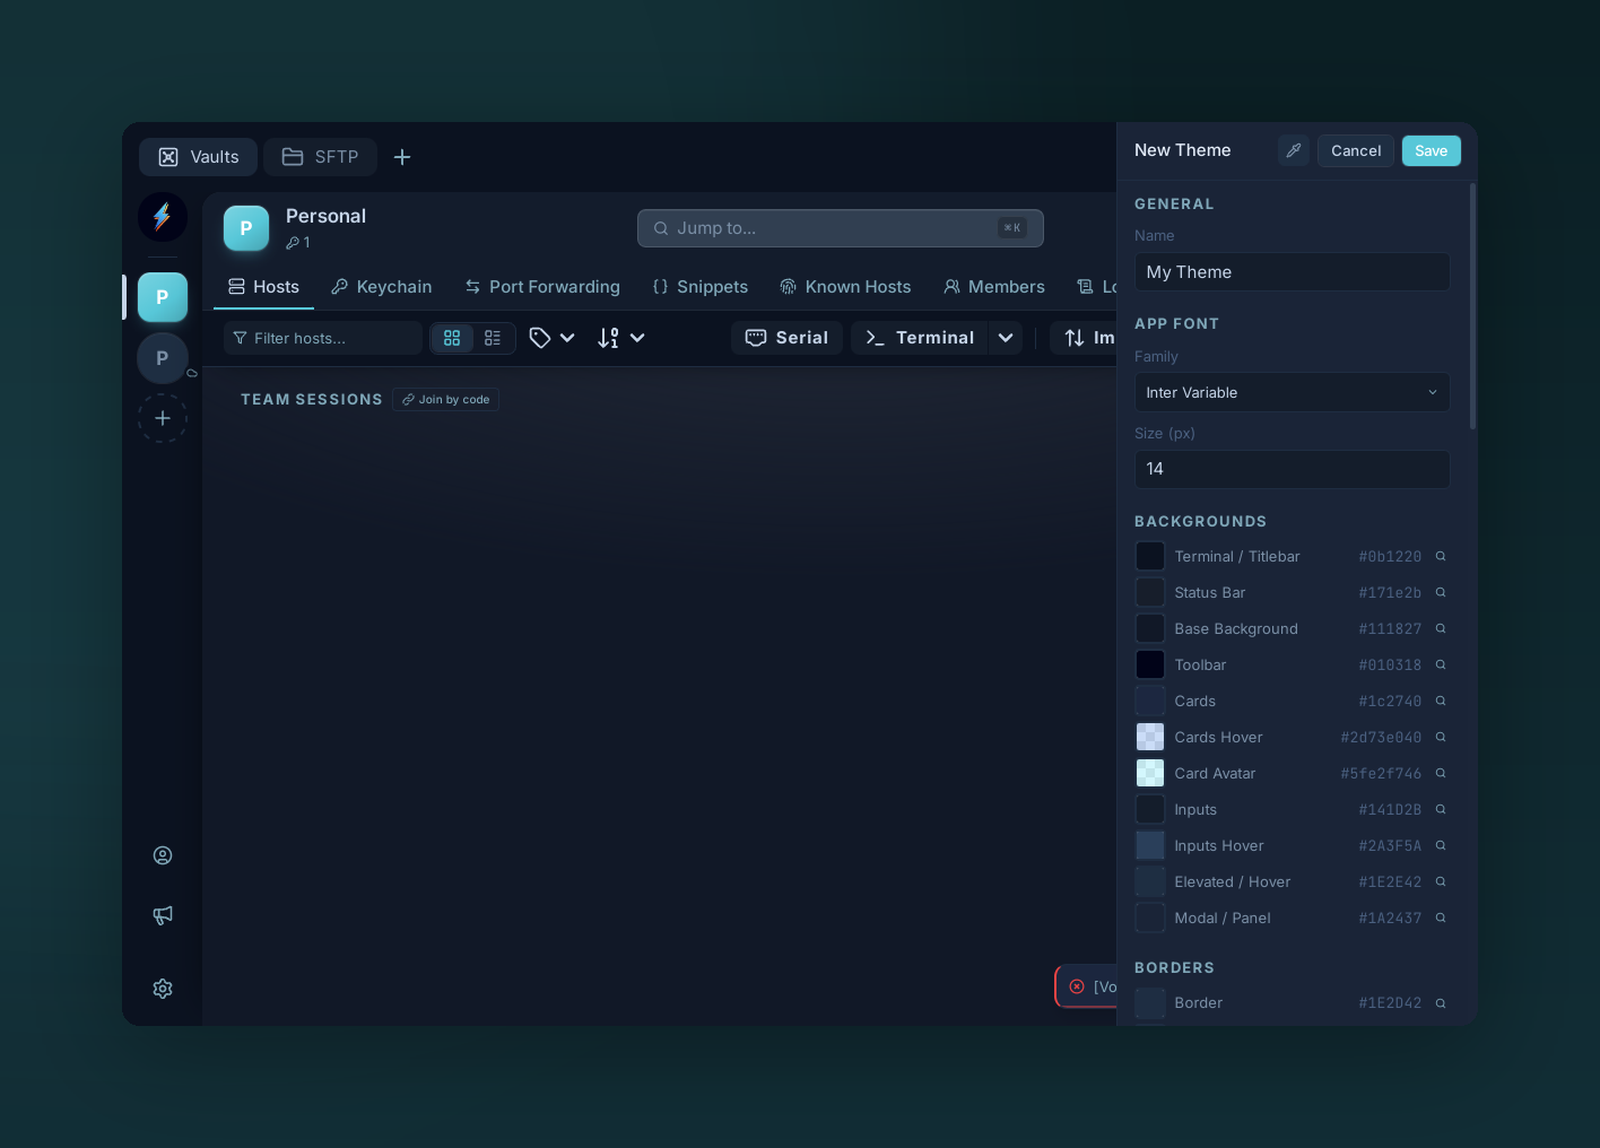
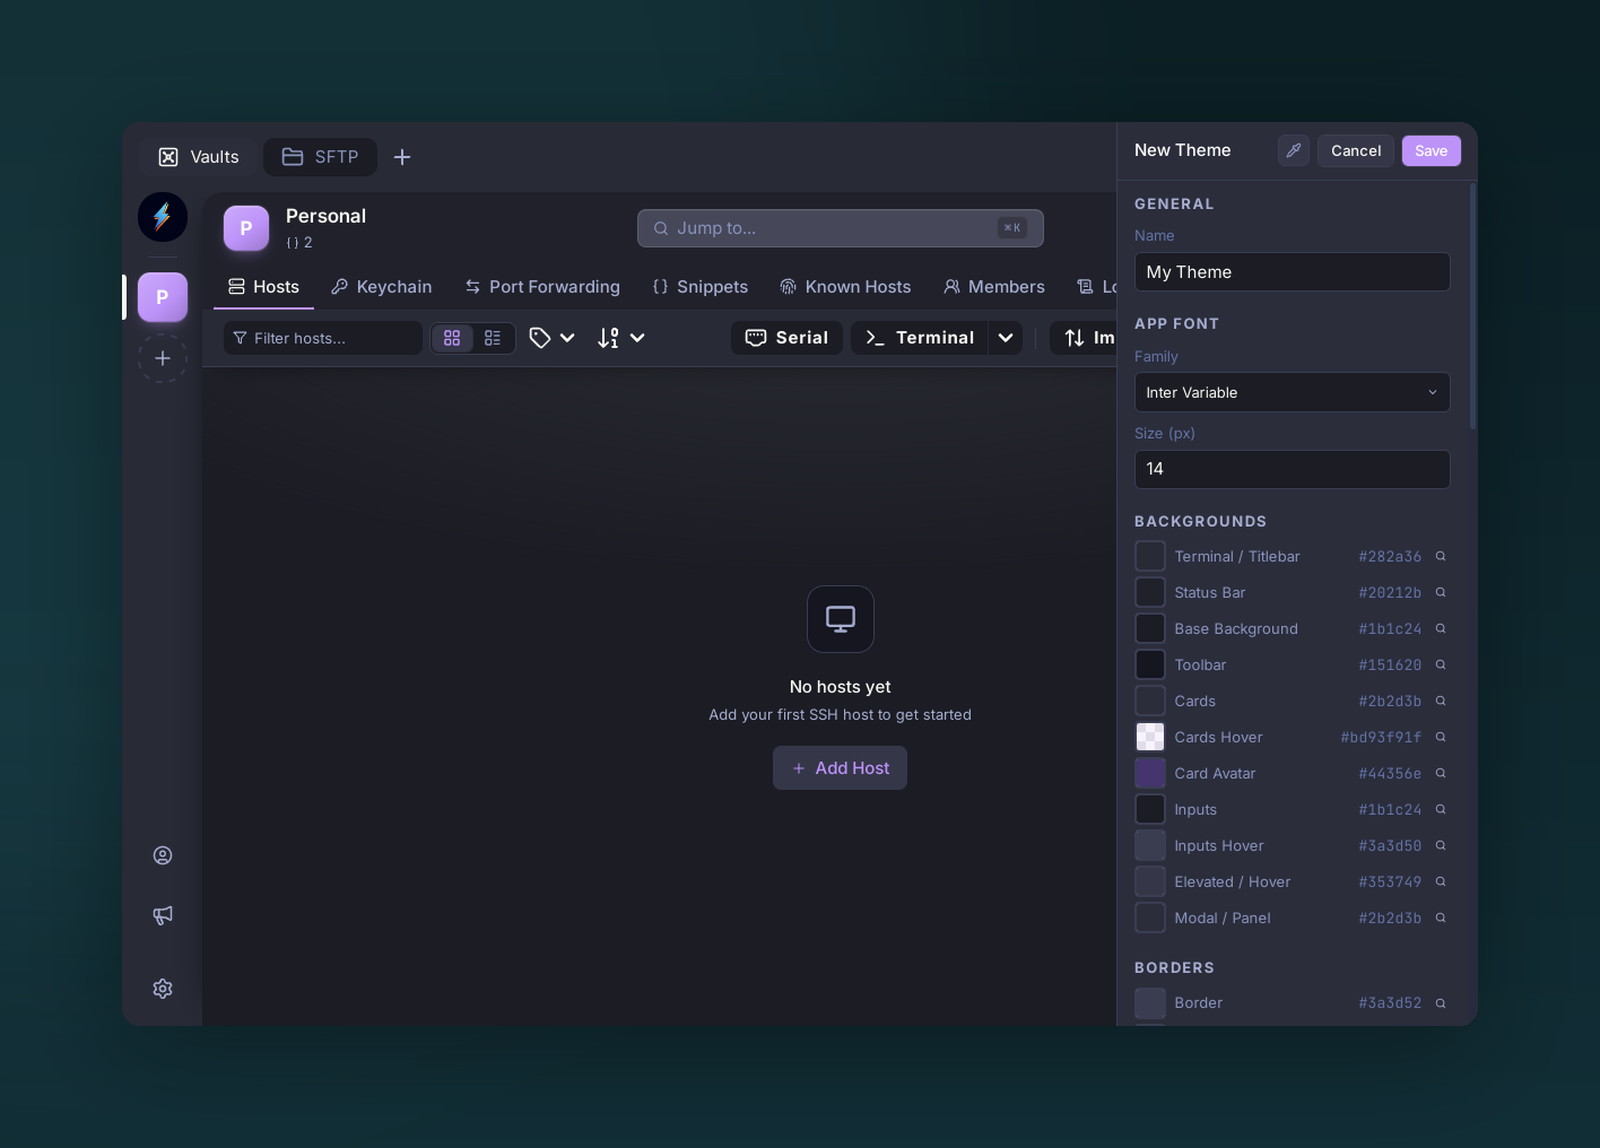
feat(themes): polish Dracula & Monokai — real elevation + text ramps (#40) (#60)
Both presets read flat because their surface and text ramps were broken:

- Chrome backgrounds collapsed together — `bgToolbar` == `bgTerminal` ==
  `bgStatusBar`, and `bgBase` sat *between* them, so toolbar / base / cards /
  panels never separated. Rebuild each as a stepped ramp
  (toolbar darkest → base → status → card → elevated).
- The text ramp was inverted: `textDim` was *darker* than `textMuted`
  (Dracula #44475a, Monokai #3e3d32), so "dim" secondary text washed out to
  near-invisible. Restore ordering with a legible dim tier.
- Active tabs were a flat neutral fill; give them an accent-tinted background
  + accent underline so the current tab reads clearly.
- Hover accent was darker than the base accent; brighten it.

Canonical hues (Dracula purple/pink/green, Monokai lime/pink/orange) and the
terminal ANSI palettes are unchanged. tsc + theme/appearance tests green.

Refs #40

diff --git a/src/themes/presets.ts b/src/themes/presets.ts
@@ -142,31 +142,31 @@ export const BUILT_IN_THEMES: AppTheme[] = [
     terminalFontSize: 17,
     ui: {
       bgTerminal: "#282a36",
-      bgStatusBar: "#282a36",
-      bgBase: "#21222C",
-      bgToolbar: "#282a36",
-      bgCard: "#2d2f3f",
-      bgCardHover: "#383a4a",
-      bgCardAvatar: "#3d3068",
-      bgInput: "#21222C",
-      bgInputHover: "#44475a",
-      bgElevated: "#383a4a",
-      bgModal: "#2d2f3f",
-      border: "#44475a",
-      borderHover: "#6272a4",
-      textDim: "#44475a",
+      bgStatusBar: "#20212b",
+      bgBase: "#1b1c24",
+      bgToolbar: "#151620",
+      bgCard: "#2b2d3b",
+      bgCardHover: "#bd93f91f",
+      bgCardAvatar: "#44356e",
+      bgInput: "#1b1c24",
+      bgInputHover: "#3a3d50",
+      bgElevated: "#353749",
+      bgModal: "#2b2d3b",
+      border: "#3a3d52",
+      borderHover: "#ffffff00",
+      textDim: "#a6adcf",
       textMuted: "#6272a4",
-      textSecondary: "#8892b9",
+      textSecondary: "#8a93bd",
       textPrimary: "#f8f8f2",
       textBright: "#ffffff",
       accent: "#bd93f9",
-      accentHover: "#a87fe0",
-      tabBg: "#383a4a",
-      tabActiveBg: "#44475a",
-      tabActiveText: "#50fa7b",
-      tabActiveBorder: "#50fa7b",
-      vaultTabBg: "#282a36",
-      vaultTabActiveBg: "#383a4a",
+      accentHover: "#d0b0fb",
+      tabBg: "#20212b",
+      tabActiveBg: "#bd93f924",
+      tabActiveText: "#d9c2fd",
+      tabActiveBorder: "#bd93f9",
+      vaultTabBg: "#1b1c24",
+      vaultTabActiveBg: "#2b2d3b",
       statusConnected: "#50fa7b",
       statusError: "#ff5555",
       statusConnecting: "#ffb86c",
@@ -248,31 +248,31 @@ export const BUILT_IN_THEMES: AppTheme[] = [
     terminalFontSize: 17,
     ui: {
       bgTerminal: "#1e1f1c",
-      bgStatusBar: "#1e1f1c",
-      bgBase: "#18191A",
-      bgToolbar: "#1e1f1c",
-      bgCard: "#272822",
-      bgCardHover: "#2f3129",
-      bgCardAvatar: "#1a2a1a",
-      bgInput: "#18191A",
-      bgInputHover: "#3e3d32",
-      bgElevated: "#2f3129",
-      bgModal: "#272822",
-      border: "#3e3d32",
-      borderHover: "#5a574c",
-      textDim: "#3e3d32",
-      textMuted: "#5a574c",
-      textSecondary: "#75715e",
+      bgStatusBar: "#201f1a",
+      bgBase: "#191a15",
+      bgToolbar: "#131410",
+      bgCard: "#282920",
+      bgCardHover: "#a6e22e1a",
+      bgCardAvatar: "#3e4a1f",
+      bgInput: "#191a15",
+      bgInputHover: "#34352a",
+      bgElevated: "#31322a",
+      bgModal: "#282920",
+      border: "#3a3b2e",
+      borderHover: "#ffffff00",
+      textDim: "#b6b09c",
+      textMuted: "#75715e",
+      textSecondary: "#948e79",
       textPrimary: "#f8f8f2",
       textBright: "#ffffff",
       accent: "#a6e22e",
-      accentHover: "#90c41f",
-      tabBg: "#2f3129",
-      tabActiveBg: "#3e3d32",
-      tabActiveText: "#e6db74",
-      tabActiveBorder: "#75715e",
-      vaultTabBg: "#272822",
-      vaultTabActiveBg: "#3e3d32",
+      accentHover: "#bff04a",
+      tabBg: "#201f1a",
+      tabActiveBg: "#a6e22e1f",
+      tabActiveText: "#c9f06e",
+      tabActiveBorder: "#a6e22e",
+      vaultTabBg: "#191a15",
+      vaultTabActiveBg: "#282920",
       statusConnected: "#a6e22e",
       statusError: "#f92672",
       statusConnecting: "#fd971f",